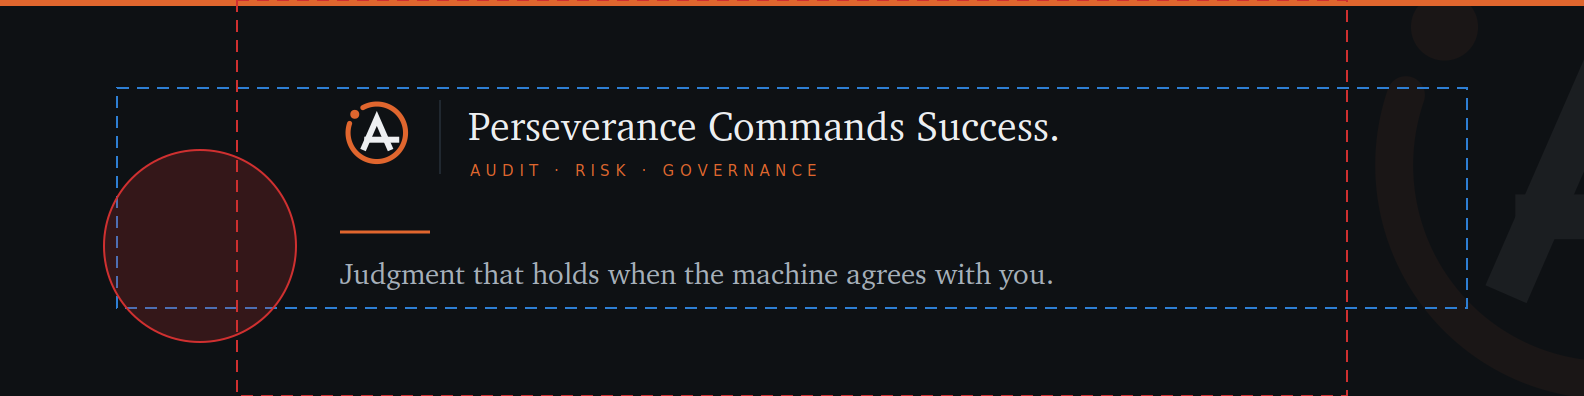
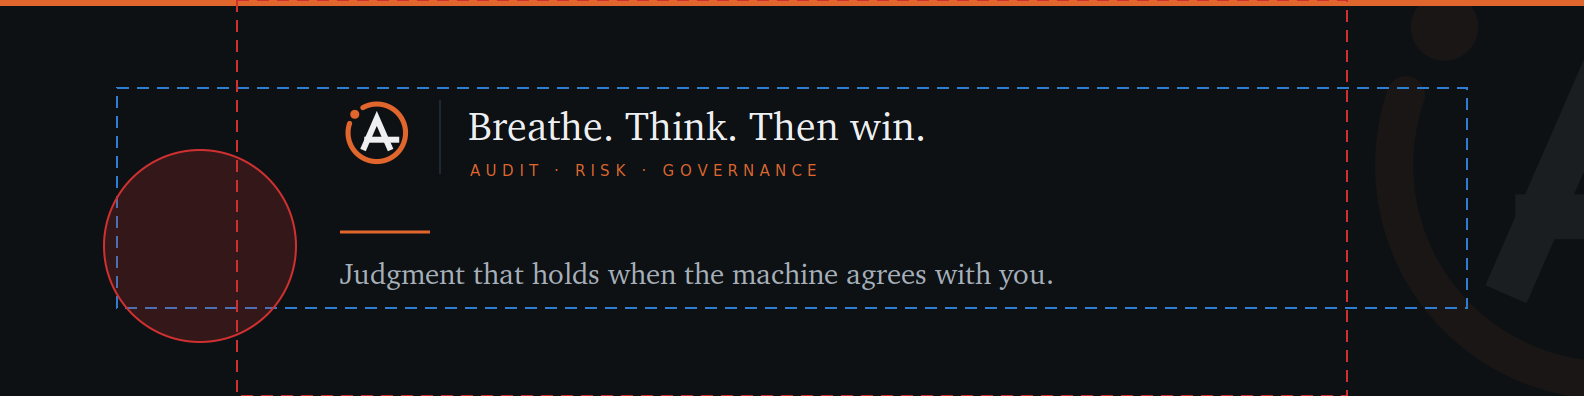
Give the brand its own motto, and keep Aitchison's where it is earned
The cover carried Aitchison College's motto. It is a good motto and it is the
school's, so it now sits only where the site already attributes it to the school,
and the brand positions carry a line of his own.

    Breathe. Think. Then win.

The line came from him. The structure came from the schools: FIU's Spes,
Scientia, Facultas is three nouns in ascending order of consequence, and this is
the same shape. What the four mottos share, read in order, is endurance, then
understanding, then merit — which is a description of an examination, and the
middle term is the one everyone drops. Breathing is the endurance and winning is
the reward; thinking is the cause.

Changed only where the brand speaks in its own voice: the generated cover, the
LinkedIn About sign-off, and the replica. MOTTO is a constant in
make_linkedin.py and the covers were regenerated from it — the PNG was not
touched by hand.

Left alone, deliberately, in the two places the motto is Aitchison's and is
already named as such: the attributed blockquote on index.html, and the sentence
in newsletter.html about growing up in Lahore and going to the school. Those are
biography and they are true as written. Replacing them would have removed an
attribution rather than added one, which is the wrong direction for a practice
that argues a claim is worth what its evidence is worth.

Claude-Session: https://claude.ai/code/session_01DLdrVksZqLdCBGWp74NiXk

Changed region(s): [[0.2784, 0.2727, 0.6806, 0.3636]]

diff --git a/linkedin.html b/linkedin.html
@@ -116,7 +116,7 @@
     <h2>1. Cover image</h2>
     <p class="hint">1584 × 396. Laid out so nothing important sits under your profile
     photo or inside the crop LinkedIn takes on mobile.</p>
-    <img class="cover-shot" src="assets/brand/linkedin/cover-dark.png" alt="LinkedIn cover: Perseverance Commands Success. Audit, Risk, Governance. Judgment that holds when the machine agrees with you." />
+    <img class="cover-shot" src="assets/brand/linkedin/cover-dark.png" alt="LinkedIn cover: Breathe. Think. Then win. Audit, Risk, Governance. Judgment that holds when the machine agrees with you." />
     <a class="dl" href="assets/brand/linkedin/cover-dark.png" download>Download dark ↓</a>
     <a class="dl" href="assets/brand/linkedin/cover-light.png" download>Download light ↓</a>
   </div>
@@ -175,7 +175,7 @@ The auditor everyone dreads teaches nobody. You cannot examine your way out of d
 WHAT I AM LOOKING FOR
 Director and Head-of level roles in AI governance, model risk, and internal audit. Also open to advisory engagements, guest lecturing, and research collaboration.
 
-Perseverance Commands Success.
+Breathe. Think. Then win.
 
 malikai-786.github.io</pre>
     </div>

diff --git a/linkedin-preview.html b/linkedin-preview.html
@@ -200,7 +200,7 @@ a{color:var(--li-blue);}
   <!-- ---------- top card ---------- -->
   <div class="card">
     <img class="cover" id="coverImg" src="assets/brand/linkedin/cover-dark.png"
-         alt="Cover: Perseverance Commands Success. Audit, Risk, Governance." />
+         alt="Cover: Breathe. Think. Then win. Audit, Risk, Governance." />
     <div class="avatar-row">
       <img class="avatar" src="assets/brand/portrait/portrait-circle.png"
            alt="Portrait of Yasir A. Malik" />
@@ -283,7 +283,7 @@ The auditor everyone dreads teaches nobody. You cannot examine your way out of d
 WHAT I AM LOOKING FOR
 Director and Head-of level roles in AI governance, model risk, and internal audit. Also open to advisory engagements, guest lecturing, and research collaboration.
 
-Perseverance Commands Success.
+Breathe. Think. Then win.
 
 malikai-786.github.io</span></div>
       <button class="seemore" data-target="aboutBox">…see more</button>

diff --git a/assets/brand/make_linkedin.py b/assets/brand/make_linkedin.py
@@ -37,7 +37,7 @@ THEMES = {
                   rule="#E2DAD3", meta="#8A929B"),
 }
 
-MOTTO = "Perseverance Commands Success."
+MOTTO = "Breathe. Think. Then win."
 VISION = "Judgment that holds when the machine agrees with you."
 DESCRIPTOR = "AUDIT · RISK · GOVERNANCE"
 
